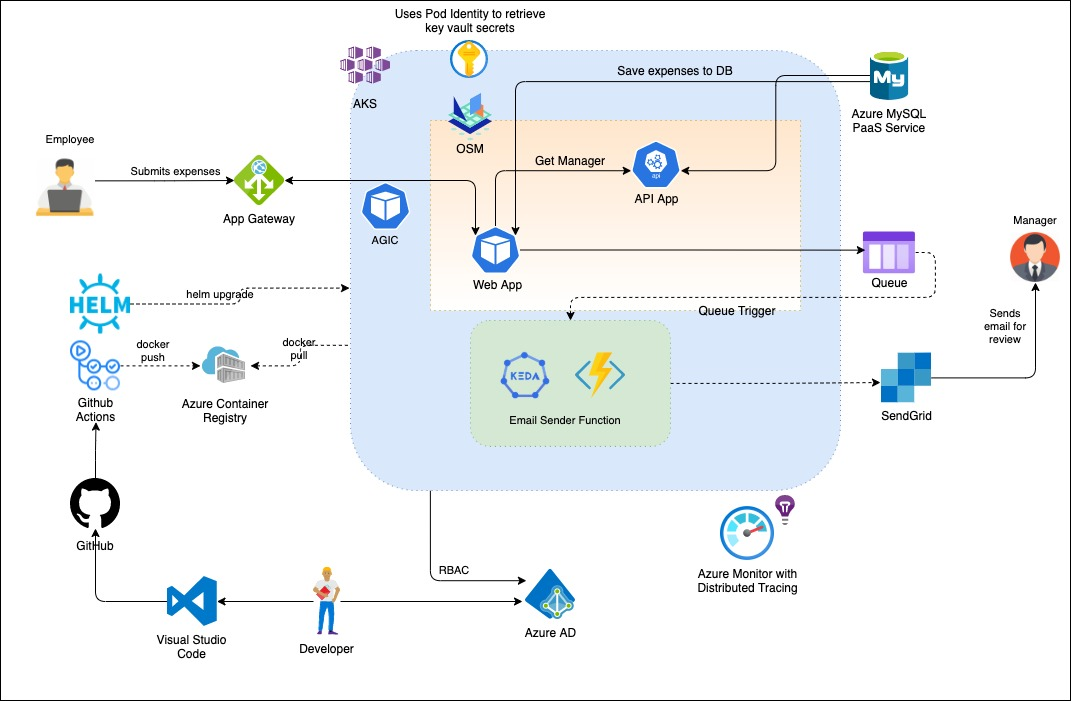
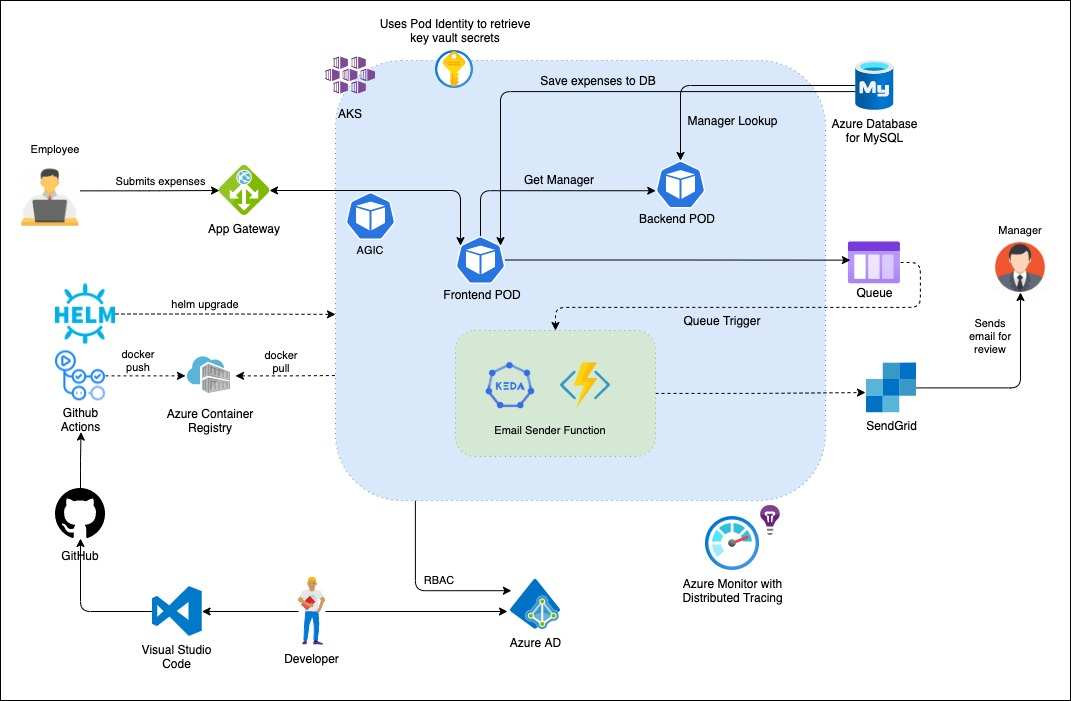
Updated diagram and edited blog changes

diff --git a/Overview.html b/Overview.html
@@ -1,5 +1,6 @@
 <h2>Overview</h2>
-<p>This article demonstrates a multi-tiered application to Azure Kubernetes Service deployment with Managed Azure Services and workflow automation. Note that the below features are still in preview so it is NOT recommended for production workloads yet!!</p>
+<p>This blog demonstrates a multi-tier application deployment on to Azure Kubernetes Service along with several other Azure managed services such as&nbsp;Azure Database for MySQL, Azure Functions, etc.</p>
+<p>Note: There may be few features that are used in this blog such as Azure Active Directory Pod Identity are still in preview, these features are not recommended for&nbsp;production deployment.&nbsp;</p>
 <h2>&nbsp;</h2>
 <h2>Architecture</h2>
 <h2><li-image width="999" height="654" alt="Architecture.jpg" align="inline" id="254664i362AE04AE08F2F66" size="large" sourceType="new"></li-image></h2>
@@ -14,11 +15,10 @@
 <li>Monitoring Addon</li>
 <li>LetsEncrypt for Certificate authority</li>
 <li>KEDA runtime for Azure Functions on Kubernetes clusters</li>
-<li>Open Service Mesh</li>
 </ol>
 </li>
-<li>Github repository with Github Actions</li>
 <li>Azure Database for MySQL Service</li>
+<li>Azure Storage Queues</li>
 <li>DNS Zone for custom domain</li>
 <li>SendGrid Account for email service</li>
 </ol>
@@ -44,9 +44,9 @@ mysqlSvr='expensedbserver'
 adminUser='expenseadmin'
 mysqlPwd=''
 keyvaultName='expensesvault'
-# Must be lower case
+# Identity name must be lower case
 identityName='exppoidentity'
-# Must be globally unique
+# Storage name must be lower case and globally unique
 storageAcc='expensesqueue'
 subscriptionId='12bb4e89-4f7a-41e0-a38f-b22f079448b4'
 tenantId='72f988bf-86f1-41af-91ab-3d7cd011db47'
@@ -79,7 +79,7 @@ az extension update --name aks-preview
 objectId=$(az ad group list --filter "displayname eq 'expenses-ad-azure'" --query '[].objectId' -o tsv)
 </code></pre>
 <h4>&nbsp;</h4>
-<h4>Create an AKS-managed Azure AD cluster with AGIC addon and AAD Pod Identity</h4>
+<h4>Create an AKS-managed Azure AD cluster with AGIC add-on and AAD Pod Identity</h4>
 <pre><code class="language-bash">az aks create \
     -n $clusterName \
     -g $resourcegroupName \
@@ -129,22 +129,13 @@ helm install cert-manager --namespace cert-manager --version v0.13.0 jetstack/ce
 kubectl apply -f yml/clusterissuer.yaml
 
 # Test a sample application. The below command will deploy a Pod, Service and Ingress resource. Application Gateway will be configured with the associated rules.
-sed -i "s/<custom domain name>/$domainName/g" yml/Test-App-Ingress.yaml
-sed -i "s/<Sub Domain>/$subDomain/g" yml/Test-App-Ingress.yaml
+sed -i "s//$domainName/g" yml/Test-App-Ingress.yaml
+sed -i "s/<sub>/$subDomain/g" yml/Test-App-Ingress.yaml
 kubectl apply -f yml/Test-App-Ingress.yaml
 
 # Clean up after successfully verifying AGIC
 kubectl delete -f yml/Test-App-Ingress.yaml
-</code></pre>
-<h4>&nbsp;</h4>
-<h4>Install OSM Service Mesh (To-do, skip this section for now)</h4>
-<pre><code class="language-bash"># Install OSM on local using https://github.com/openservicemesh/osm#install-osm
-# Install OSM on Kubernetes
-osm install --mesh-name exp-osm
-
-# Enable OSM on the namespace. Enables sidecar injection
-osm namespace add default
-</code></pre>
+</sub></code></pre>
 <h4>&nbsp;</h4>
 <h4>Install KEDA runtime</h4>
 <pre><code class="language-bash">helm repo add kedacore https://kedacore.github.io/charts
@@ -186,7 +177,7 @@ aksPublicIpAddress=$(az network public-ip show -n $aksPublicIpName -g $nodeRG --
 az mysql server create --resource-group $resourcegroupName --name $mysqlSvr --location $location --admin-user $adminUser --admin-password $mysqlPwd --sku-name B_Gen5_2
 az mysql server firewall-rule create --name allowip --resource-group $resourcegroupName --server-name $mysqlSvr --start-ip-address $aksPublicIpAddress --end-ip-address $aksPublicIpAddress
 
-# Replace <Dev station ip> with your Local Machine IP. You can use: https://www.whatsmyip.org/
+# Replace  with your Local Machine IP. You can use: https://www.whatsmyip.org/
 az mysql server firewall-rule create --name devbox --resource-group $resourcegroupName --server-name $mysqlSvr --start-ip-address &lt;Dev station ip&gt; --end-ip-address &lt;Dev station ip&gt;
 </code></pre>
 <h4>&nbsp;</h4>
@@ -290,14 +281,21 @@ kubectl apply -f yml/frontend.yaml
 
 # Create ingress resource
 sed -i "s/&lt;custom domain name&gt;/$domainName/g" yml/ingress.yaml
-sed -i "s/<Sub Domain>/$subDomain/g" yml/ingress.yaml
+sed -i "s/<sub>/$subDomain/g" yml/ingress.yaml
 kubectl apply -f yml/ingress.yaml
 
 # Create KEDA function
 sed -i "s/&lt;identity name created&gt;/$identityName/g" yml/function.yaml
 sed -i "s/&lt;function image built&gt;/$registryHost\/conexp\/emaildispatcher:latest/g" yml/function.yaml
 kubectl apply -f yml/function.yaml
-</code></pre>
+</sub></code></pre>
 <p>Once the ingress controller updates with new frontend deployed it may take a min for Application gateway to update.</p>
 <p>Browse the application URL: <a href="https://subdomain.yourcustomdomain.com" target="_blank" rel="noopener">https://subdomain.yourcustomdomain.com</a></p>
+<p>&nbsp;</p>
+<h4>Next Steps</h4>
+<ul>
+<li>Implement Service Mesh (like OSM) for securing service to service communications</li>
+<li>Enabling managed identity to access MySQL and Storage services, thus removing Key Vault references</li>
+<li>Enabling Github Actions for CI/CD pipelines</li>
+</ul>
 <p>&nbsp;</p>

diff --git a/README.md b/README.md
@@ -2,9 +2,8 @@
 
 ## Overview
 
-This article demonstrates a multi-tiered application to Azure Kubernetes Service deployment with Managed Azure Services and workflow automation.
-
-Note that the below features are still in preview so it is NOT recommended for production workloads yet!!
+This blog demonstrates a multi-tier application deployment on to Azure Kubernetes Service along with several other Azure managed services such as Azure Database for MySQL, Azure Functions, etc.
+Note: There may be few features that are used in this blog such as Azure Active Directory Pod Identity are still in preview, these features are not recommended for production deployment.
 
 ## Architecture
 
@@ -20,9 +19,8 @@ We will create and setup the infrastructure including the following services:
    2. Monitoring Addon
    3. LetsEncrypt for Certificate authority
    4. KEDA runtime for Azure Functions on Kubernetes clusters
-   5. Open Service Mesh
-3. Github repository with Github Actions
-4. Azure Database for MySQL Service
+3. Azure Database for MySQL Service
+4. Azure Storage Queues
 5. DNS Zone for custom domain
 6. SendGrid Account for email service
 
@@ -167,19 +165,6 @@ kubectl apply -f yml/Test-App-Ingress.yaml
 kubectl delete -f yml/Test-App-Ingress.yaml
 ```
 
-#### Install OSM Service Mesh (To-do, skip this section for now)
-
-```bash
-# Install OSM on local using https://github.com/openservicemesh/osm#install-osm
-
-# Install OSM on Kubernetes
-osm install --mesh-name exp-osm
-
-# Enable OSM on the namespace. Enables sidecar injection
-osm namespace add default
-
-```
-
 #### Install KEDA runtime
 
 ```bash
@@ -264,9 +249,9 @@ CREATE TABLE CostCenters(
 );
 
 # Insert example records
-INSERT INTO CostCenters (CostCenterId, SubmitterEmail,ApproverEmail,CostCenterName)  values (1, 'ssarwa@microsoft.com', 'ssarwa@microsoft.com','123E42');
-INSERT INTO CostCenters (CostCenterId, SubmitterEmail,ApproverEmail,CostCenterName)  values (2, 'ssarwa@microsoft.com', 'ssarwa@microsoft.com','456C14');
-INSERT INTO CostCenters (CostCenterId, SubmitterEmail,ApproverEmail,CostCenterName)  values (3, 'ssarwa@microsoft.com', 'ssarwa@microsoft.com','456C14');
+INSERT INTO CostCenters (CostCenterId, SubmitterEmail,ApproverEmail,CostCenterName)  values (1, 'submitter@email.com', 'approver@email.com','123E42');
+INSERT INTO CostCenters (CostCenterId, SubmitterEmail,ApproverEmail,CostCenterName)  values (2, 'submitter@email.com', 'approver@email.com','456C14');
+INSERT INTO CostCenters (CostCenterId, SubmitterEmail,ApproverEmail,CostCenterName)  values (3, 'submitter@email.com', 'approver@email.com','789A28');
 
 # Verify records
 SELECT * FROM CostCenters;
@@ -354,24 +339,3 @@ kubectl apply -f yml/function.yaml
 ```
 
 Once the ingress controller updates with new frontend deployed it may take a min for Application gateway to update.
-
-#### Prepare Github Actions
-
-```bash
-# Get Resource Group ID
-groupId=$(az group show --name $resourcegroupName --query id -o tsv)
-
-# Create Service Principal and save the output
-az ad sp create-for-rbac --scope $groupId --role Contributor --sdk-auth
-
-# Get ACR ID
-registryId=$(az acr show --name $acrName --query id --output tsv)
-
-# Assign ACR Push role
-az role assignment create \
-  --assignee <ClientId> \
-  --scope $registryId \
-  --role AcrPush
-
-# Now you are ready to trigger the build and release from Github Actions using the provided Actions file.
-```
